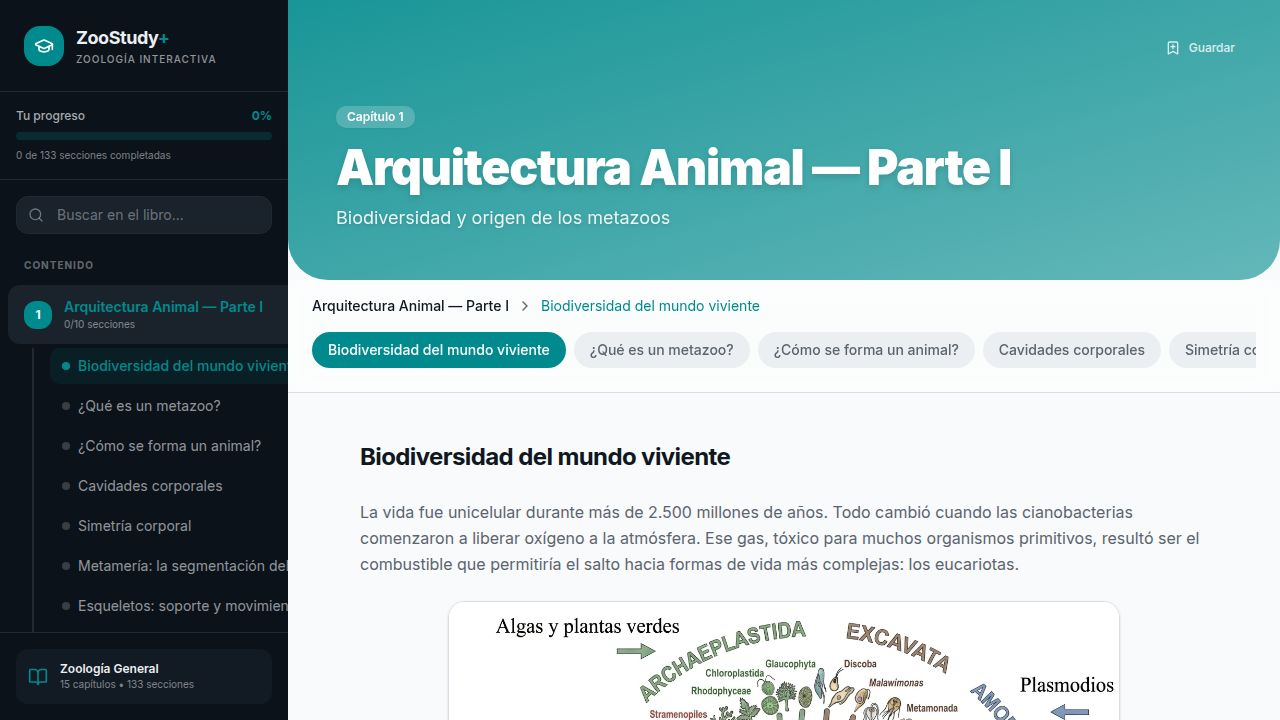
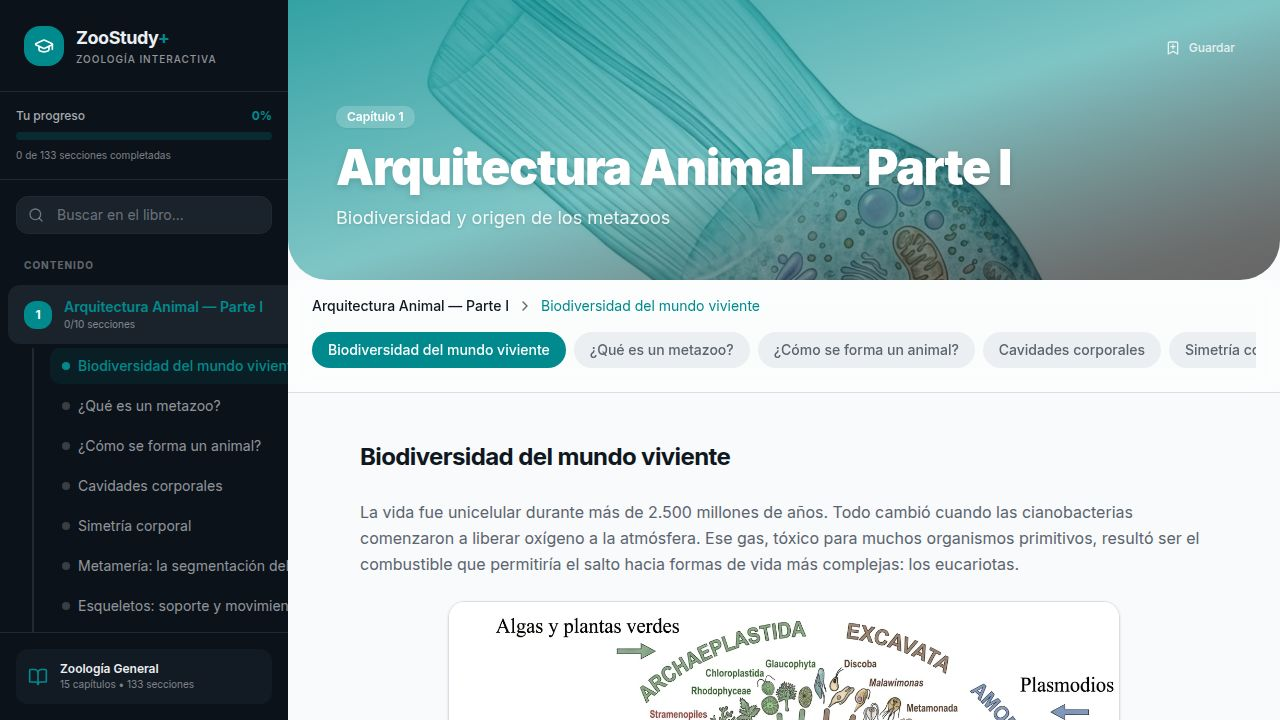
Add custom header images to book chapters
Adds the `headerImage` field to `book-data.ts` to allow custom header images for each chapter, with the first chapter updated to use a Cloudinary URL.

Replit-Commit-Author: Agent
Replit-Commit-Session-Id: 0ecd5166-60ff-4546-8631-de34a19e9b5e
Replit-Commit-Checkpoint-Type: full_checkpoint
Replit-Commit-Event-Id: 6777f9cb-5bb8-42a1-88be-b2a9799af617
Replit-Commit-Screenshot-Url: https://storage.googleapis.com/screenshot-production-us-central1/64caf8f7-f5bd-4efe-8348-83b2aaa58553/0ecd5166-60ff-4546-8631-de34a19e9b5e/lt7jhQN
Replit-Helium-Checkpoint-Created: true

Changed region(s): [[0.2188, 0.0, 1.0, 0.3972]]

diff --git a/artifacts/zoology-book/src/lib/book-data.ts b/artifacts/zoology-book/src/lib/book-data.ts
@@ -29,6 +29,7 @@ export const chapters: Chapter[] = [
     number: 1,
     title: "Arquitectura Animal — Parte I",
     subtitle: "Biodiversidad y origen de los metazoos",
+    headerImage: "https://res.cloudinary.com/dhtyvmi5f/image/upload/f_auto,q_auto,w_1600,h_600,c_fill/v1777132775/Gemini_Generated_Image_40npjw40npjw40np_flp9xk.png",
     sections: [
       {
         id: "biodiversidad",
